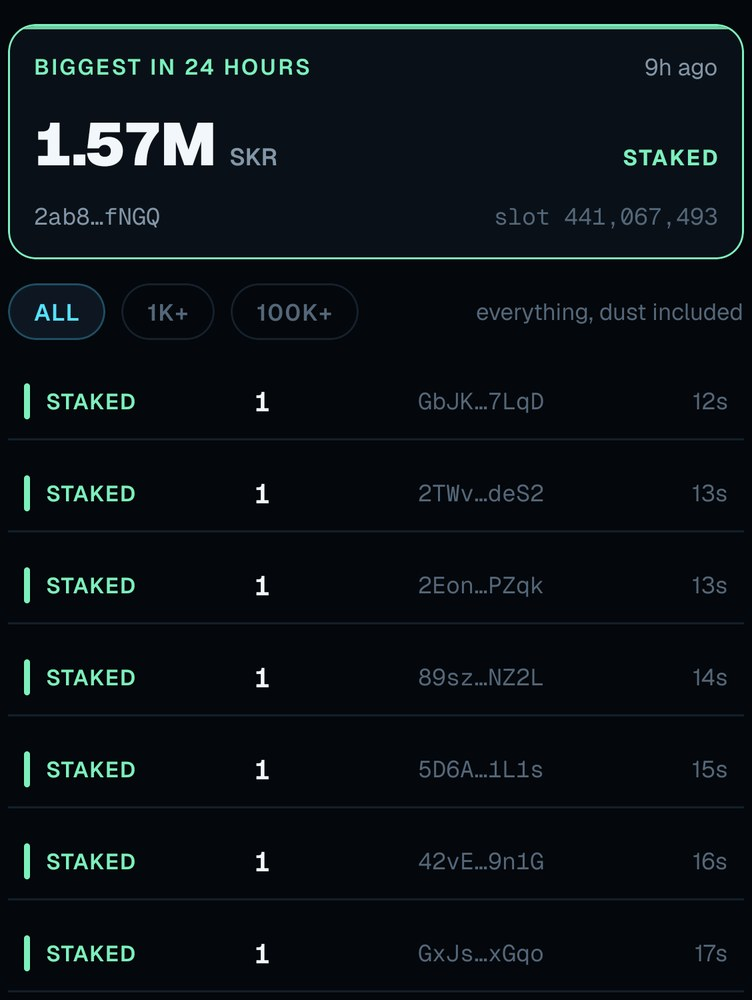
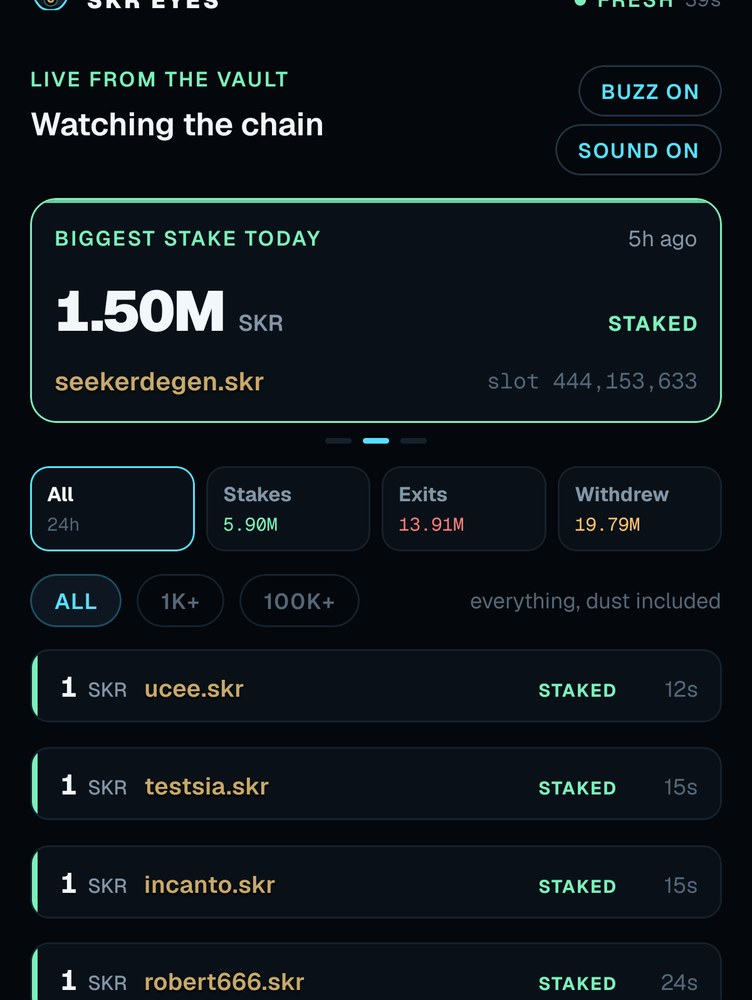
README and site for 1.1.0: the living vault, four tabs, eleven languages

diff --git a/site/index.html b/site/index.html
@@ -4,7 +4,7 @@
 <meta charset="utf-8">
 <meta name="viewport" content="width=device-width, initial-scale=1">
 <title>SKR Eyes — see the whole picture, know your position</title>
-<meta name="description" content="An independent Android app for SKR stakers on Solana Mobile Seeker: your position with its real age, the whole vault's pulse, the live event floor, the 48 hour exit queue, unlock alerts, and staking through your own wallet.">
+<meta name="description" content="An independent Android app for SKR stakers on Solana Mobile Seeker: the living vault where every stake falls in with its .skr name, the live event floor, your own card with its real age and what it has earned, unlock alerts, and staking through your own wallet.">
 <link rel="icon" href="/img/mark.png">
 <link rel="stylesheet" href="/styles.css?v=51c1c78a">
 <link rel="stylesheet" href="/wink.css?v=c13ed2e2">
@@ -37,7 +37,7 @@
       <a class="button" href="#screens">See the screens</a>
       <a class="button ghost" href="#how">How it works</a>
     </div>
-    <p class="note">Coming to the Solana dApp Store.</p>
+    <p class="note">In the Solana dApp Store, version 1.1.0. On a Seeker, open <a href="solanadappstore://details?id=dev.alexkosa.skreyes">SKR Eyes in the store</a>.</p>
     </div>
 
     <div class="wink" aria-hidden="true">
@@ -81,8 +81,8 @@
   <section class="wrap">
     <div class="slices">
       <figure class="slice">
-        <img src="/img/slice-pulse.jpg" alt="The headline number on a split-flap board: 5.09 billion SKR staked" width="752" height="1000" loading="lazy">
-        <figcaption><b>The number that flips</b>How much of the supply is staked, on a board that rolls over when it moves.</figcaption>
+        <img src="/img/slice-vault.jpg" alt="The living vault: exits hanging above the pile with their cooling rings, the day's largest stakes lit on top, the staked total on a split-flap board" width="752" height="1000" loading="lazy">
+        <figcaption><b>The vault, alive</b>Every stake falls in as a phone with its .skr name. Every exit hangs above the pile and cools for 48 hours.</figcaption>
       </figure>
       <figure class="slice">
         <img src="/img/slice-flow.jpg" alt="The live event floor with the day's biggest move pinned above the stream" width="752" height="1000" loading="lazy">
@@ -90,45 +90,45 @@
       </figure>
       <figure class="slice">
         <img src="/img/slice-card.jpg" alt="The personal card: wallet name, amount staked, days held, share of the vault" width="752" height="1000" loading="lazy">
-        <figcaption><b>Your card, and its age</b>What you hold and how long you have held it, read from your position account.</figcaption>
+        <figcaption><b>Your card, and its age</b>What you hold and how long you have held it, read from your position account. Hide your name or your amount before you share it.</figcaption>
       </figure>
     </div>
     <p class="note slices-note">Cut from the app running on a Seeker. Not mockups.</p>
   </section>
 
   <section class="wrap section" id="screens">
-    <h2>Five screens, one idea</h2>
-    <p class="sub">Every number on every screen comes from the chain and carries its source. Nothing is decorative, nothing is invented to fill a gap.</p>
+    <h2>Four tabs, one idea</h2>
+    <p class="sub">Every number on every screen comes from the chain and carries its source. Nothing is decorative, nothing is invented to fill a gap. Every phone in the vault is a finalized move you can tap for its receipt.</p>
 
     <div class="screens">
       <article class="screen">
-        <img src="/img/card.jpg" alt="The personal card: wallet name, amount staked, days held, share of the vault">
-        <h3>Your card</h3>
-        <p>Your name from the wallet, what you hold, how long you have held it, and your weight in the vault. The age is read from the oldest signature on your position account, not estimated.</p>
+        <img src="/img/vault.jpg" alt="Vault: the animated scene of the staking vault, the staked total on a split-flap board, the last 24 hours drawn hour by hour">
+        <h3>Vault</h3>
+        <p>The home screen. Stakes fall into the pile of what stays, larger ones larger and slower, a 100K stake as a shower. Exits hang above it with a ring that closes over their 48 hours. Under the scene: how much is staked, the day drawn hour by hour, and the exit queue. Motion can be Live, Calm or Off.</p>
       </article>
 
       <article class="screen">
-        <img src="/img/pulse.jpg" alt="Pulse: active stake, 24 hour flow chart, cooldown and withdrawable tiles, maturity rail">
-        <h3>Pulse</h3>
-        <p>The whole vault at a glance: how much is staked, what flowed in and out over 24 hours, 7 days or 30 days, and how the exit queue matures over the next two days.</p>
-      </article>
-
-      <article class="screen">
-        <img src="/img/flow.jpg" alt="Flow: live finalized events with the largest move of the day pinned on top">
+        <img src="/img/flow.jpg" alt="Flow: the day's biggest stake pinned above a stream of finalized events, filters by kind and size">
         <h3>Flow</h3>
-        <p>The live floor. Every finalized stake, unstake and withdrawal as it lands, with the day's biggest move pinned above the stream and a gentle buzz when something arrives.</p>
+        <p>The live floor. Every finalized stake, exit and withdrawal as it lands, filtered by kind and by size, with the day's biggest moves pinned on top. A large stake rings an old phone, a large exit lands with a low boom, on any screen, each with a short buzz. Or switch both off.</p>
       </article>
 
       <article class="screen">
-        <img src="/img/queue.jpg" alt="Queue: amount ready to withdraw and the maturity of the exit queue">
-        <h3>Queue</h3>
-        <p>What is waiting to leave and when it frees. An unstake request is not money out — this screen keeps the difference visible.</p>
+        <img src="/img/me.jpg" alt="Me: earned on staking, the Stake button, the daily Sixteen, two privacy switches for the card">
+        <h3>Me</h3>
+        <p>Your position, what it has earned, read from the chain, and staking without leaving the app: one approval covers up to sixteen parts, or tap Sixteen for 16 parts of 1 SKR as a small daily habit. The app checks your balance first and says plainly what you can afford.</p>
       </article>
 
       <article class="screen">
-        <img src="/img/stake.jpg" alt="The staking screen: amount per transaction, number of transactions, total">
-        <h3>Staking</h3>
-        <p>Choose what goes into one transaction and how many transactions to send. One wallet approval covers up to sixteen, and a progress bar follows each one until the chain confirms it.</p>
+        <img src="/img/card.jpg" alt="The staker card: .skr name, days in stake, position size, weight in the vault">
+        <h3>Your card</h3>
+        <p>Your .skr name from the registry, your days in stake read from the oldest signature on your position account, your weight in the vault. Share it as a picture, with your name or your amount hidden if you prefer.</p>
+      </article>
+
+      <article class="screen">
+        <img src="/img/alerts.jpg" alt="Alerts: the thresholds behind the sounds, eleven languages, a test notification, tips in SKR">
+        <h3>Alerts</h3>
+        <p>An alarm at the exact on-chain unlock time, set on the phone itself. Sound and buzz switches, the language of the app, and a tip in SKR to kosa.skr that is staked right away, all of it.</p>
       </article>
     </div>
   </section>
@@ -172,7 +172,7 @@
     <dl class="rows">
       <div class="row">
         <dt>do I need SKR?</dt>
-        <dd>No. Pulse, Flow and Queue work with no wallet at all, and you can inspect any public address on the card screen. SKR is needed only to stake.</dd>
+        <dd>No. Vault, Flow and Alerts work with no wallet at all, and you can look up any public address on Me. SKR is needed only to stake.</dd>
       </div>
       <div class="row">
         <dt>what does staking cost?</dt>
@@ -181,6 +181,10 @@
       <div class="row">
         <dt>why several transactions?</dt>
         <dd>Because each one is a separate on-chain stake. The app can send up to sixteen from a single approval, and each needs at least 1 SKR.</dd>
+      </div>
+      <div class="row">
+        <dt>which languages?</dt>
+        <dd>English, Deutsch, 中文, Русский, Español, Português, Türkçe, Tiếng Việt, Indonesia, 한국어, 日本語. The app follows the phone's language and can be switched by hand on Alerts.</dd>
       </div>
       <div class="row">
         <dt>who made it?</dt>

diff --git a/README.md b/README.md
@@ -1,12 +1,15 @@
 # SKR Eyes
 
-A Solana Mobile app for people who stake SKR. It shows the queue, the flow of
-stakes and unstakes, your own position, and lets you stake straight from the
-phone through the Mobile Wallet Adapter.
+A Solana Mobile app for people who stake SKR. The vault is drawn alive: every
+stake falls in as a phone with the staker's `.skr` name, every exit hangs above
+the pile and cools for its 48 hours. Under it, the live feed of finalized moves,
+your own card with its real age and what it has earned, unlock alerts set on the
+phone itself, and staking straight from the phone through the Mobile Wallet
+Adapter. Eleven languages.
 
 **Stake SKR. See everything.**
 
-- App: `dev.alexkosa.skreyes` — version 1.0.0
+- App: `dev.alexkosa.skreyes` — version 1.1.0 (versionCode 6), in the Solana dApp Store since 04.09.2026
 - Site, privacy and support: <https://skr-eyes.alexkosa.dev>
 - Data comes from the public API at <https://skr.alexkosa.dev>
 
@@ -21,7 +24,9 @@ This project is **not affiliated with the Solana Foundation or Solana Mobile.**
 | `patches/` | `patch-package` fixes applied on top of the dependencies |
 | `scripts/probe/` | Offline proof that the stake transaction bytes are correct |
 | `site/` | The static site: overview, privacy, terms, support |
-| `store/` | dApp Store listing text and the script that draws the media |
+| `store/` | dApp Store listing text, release notes per version, and the script that draws the media |
+| `src/lab/` | The screens: `VaultScene` and `vaultSceneHtml.ts` (the living vault in a WebView), `FlowLab`, `MyLab`, `AlertsLab`, the staker card and the stake flow |
+| `src/strings/` | The eleven languages |
 | `assets/`, `brand/` | Icon, splash, sounds and the sources they are generated from |
 
 `android/` is not committed: it is generated by `expo prebuild -p android`.
@@ -50,7 +55,9 @@ cd android && ./gradlew assembleRelease -PreactNativeArchitectures=arm64-v8a
 Without those variables the build is signed with the debug key and the store
 will reject it; Gradle prints a warning saying exactly that.
 
-The signed 1.0.0 APK is attached to the `v1.0.0` release rather than committed.
+Signed APKs live in `builds/`, which is not committed. The 1.0.0 APK is
+attached to the `v1.0.0` release. The release notes for every version are in
+`store/RELEASE-<version>.md`.
 
 ## Licence
 
